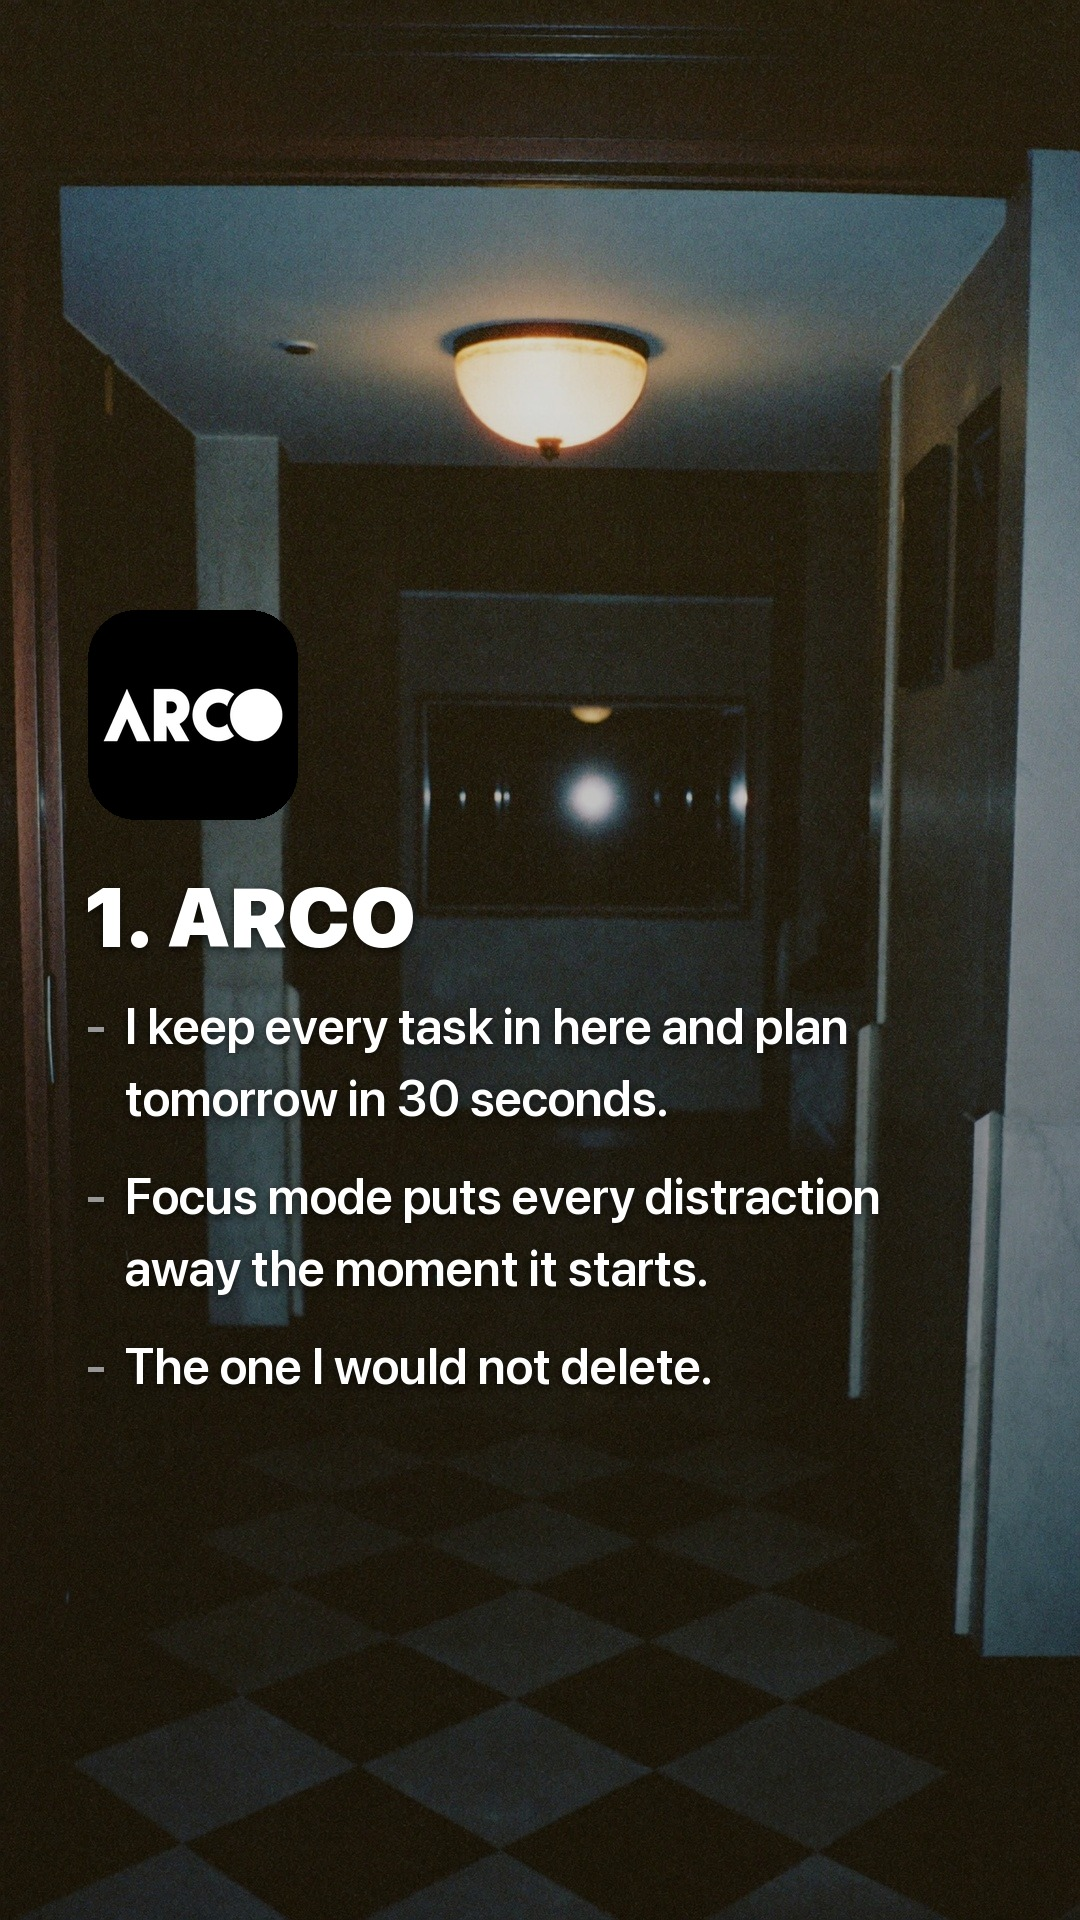
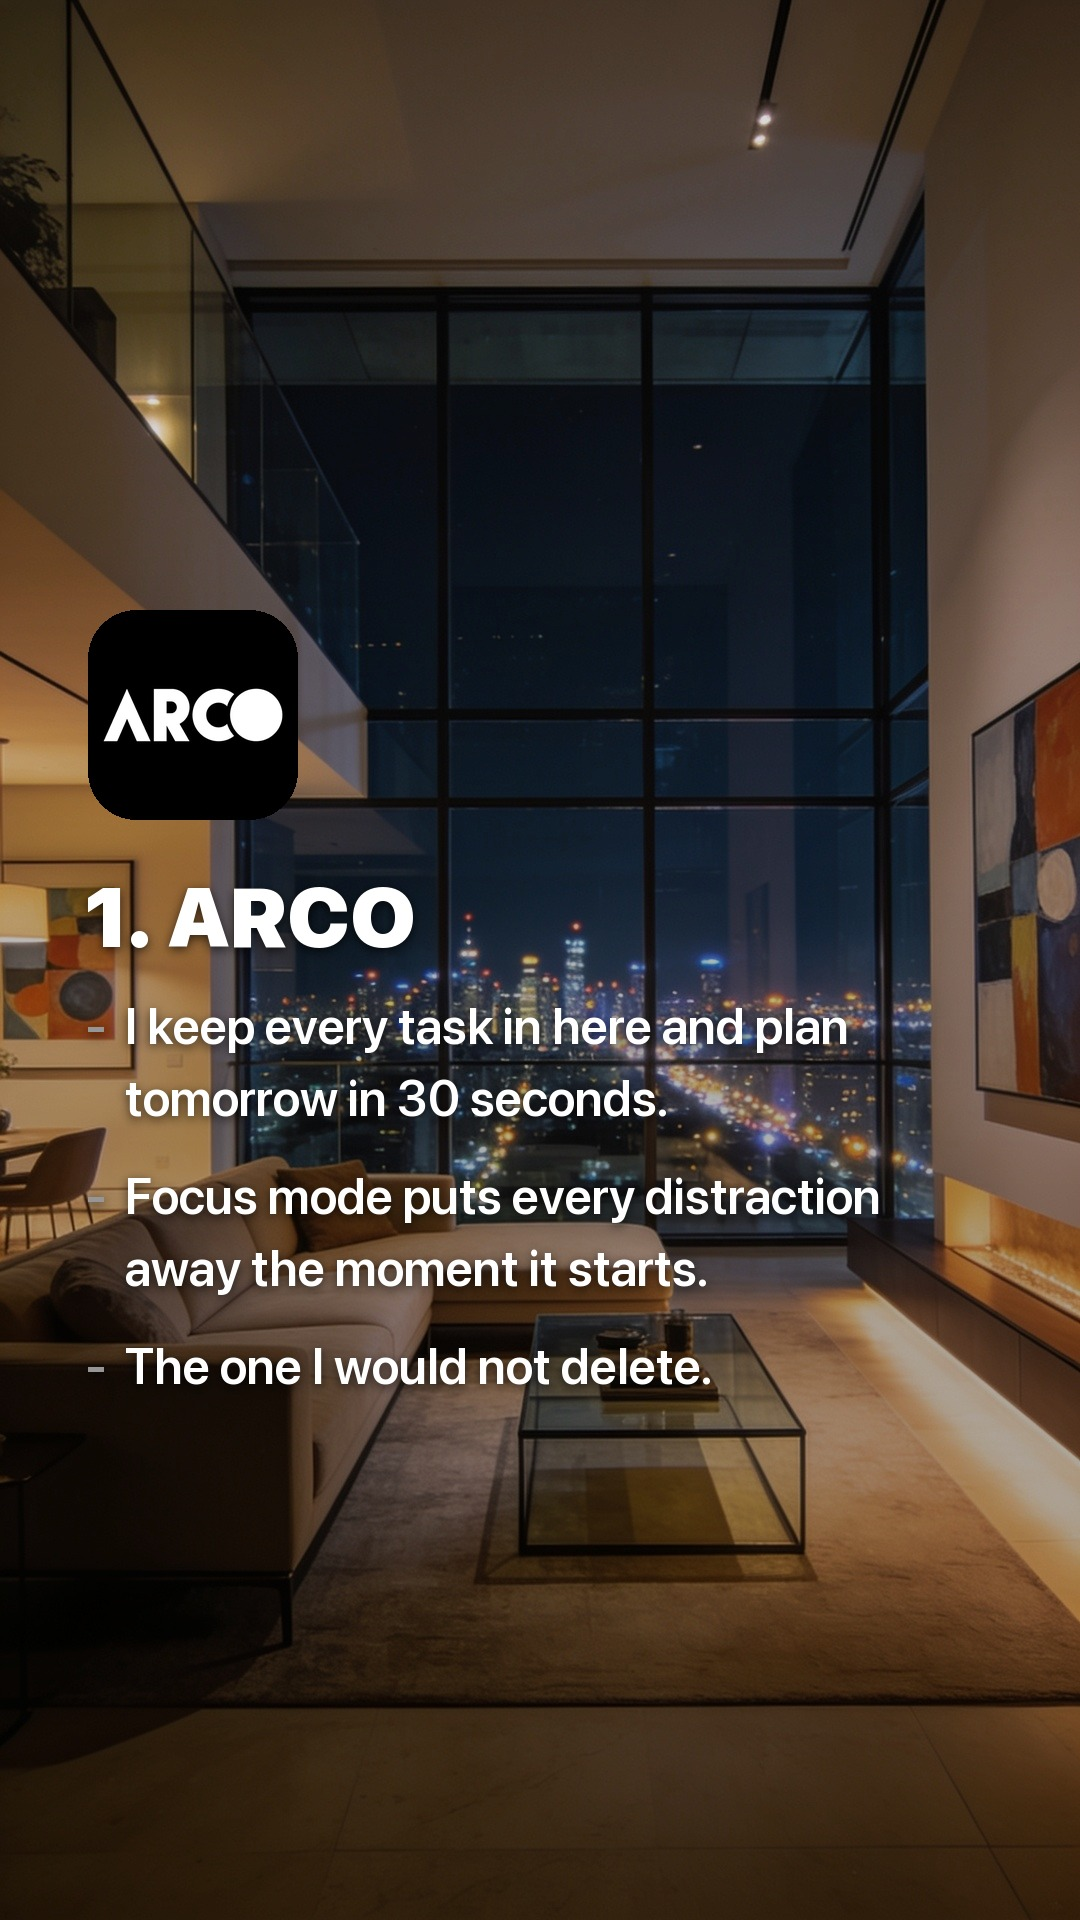
business-at-19 slide 2: back onto a curated pool background
Slide 2 was on bg-h83, one of the eight frames an earlier build generated
for itself when it found no dark non-desk photo left inside the background
cooldown. The build rules say not to ingest anything: the pool is Thinh's to
curate, and he has since moved bg-h81..h88 out to bg/_unapproved/. His note
on the slide was "use background from the pool".

Re-rendered on bg-h20 (lounge-day, a night penthouse frame already in the
pool). Every guard holds for the slide: copy_band_luma 67.0 under the 70
ceiling, vibe lounge-day against window-silhouette on slide 1, not hook-only,
no second person alongside bg-h32, outside the three-post cooldown. The other
daylight candidates all put the copy across a monitor row, which is what got
the first render of this post rejected.

Copy is untouched — the same ARCO angle v5, re-read off arco_angles.json so
the rebuild does not consume a new one. bg_history now records bg-h20 for
slide 2 so the next posts treat it as spent.

Slides 3 and 5 still point at bg-h82 and bg-h85, retired the same way. Left
alone: this redo was scoped to slide 2.

diff --git a/tools/gen-business-at-19.py b/tools/gen-business-at-19.py
@@ -18,7 +18,10 @@ os.makedirs(OUT, exist_ok=True)
 
 HOOK = ['the tools i use to run my business', 'at 19 years old']
 TOOLS = ['ARCO', 'Claude', 'Notion', 'Canva', 'RevenueCat']
-BGS = ['bg-h32.jpg', 'bg-h83.jpg', 'bg-h82.jpg', 'bg-h36.jpg',
+# Slide 2 was on bg-h83, one of the bg-h81..h88 frames a build generated
+# itself when the pool ran short. Thinh retired all eight to bg/_unapproved/:
+# the pool is his to curate, so a build picks from what is already in it.
+BGS = ['bg-h32.jpg', 'bg-h20.jpg', 'bg-h82.jpg', 'bg-h36.jpg',
        'bg-h85.jpg', 'bg-h39.jpg']
 
 BODY = {
